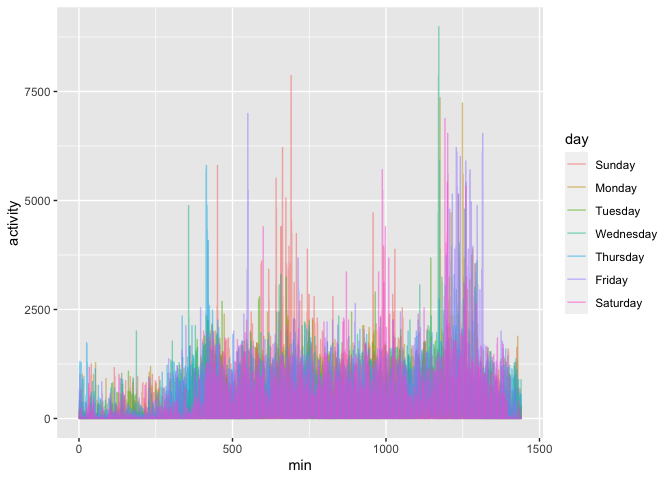
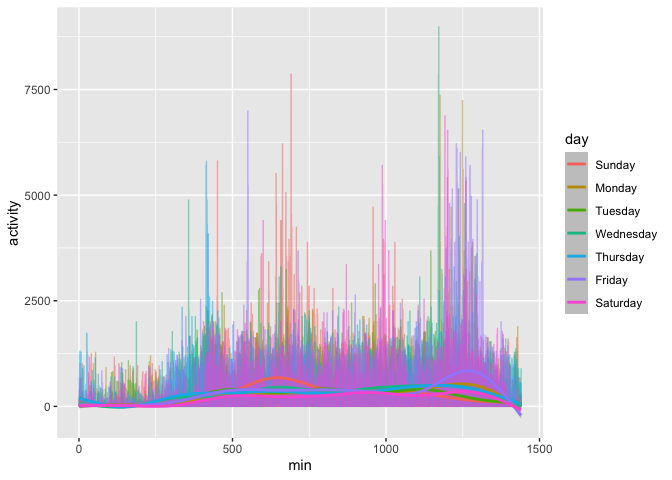
P3 solved _ P3_3_a still blank

diff --git a/p8105_hw3_yx2578.md b/p8105_hw3_yx2578.md
@@ -7,21 +7,9 @@ This is my solution to HW3.
 ``` r
 library(tidyverse)
 library(p8105.datasets)
-knitr::opts_chunk$set(
-    fig.width = 6, 
-  fig.asp = .6,
-  out.width = "90%"
-)
-theme_set(theme_minimal() + theme(legend.position = "bottom"))
-options(
-  ggplot2.continuous.colour = "viridis",
-  ggplot2.continuous.fill = "viridis"
-)
-scale_colour_discrete = scale_colour_viridis_d
-scale_fill_discrete = scale_fill_viridis_d
 ```
 
-### Problem 1
+### Problem 1 demonstrated by Jeff in class
 
 ``` r
 data("instacart")
@@ -72,7 +60,7 @@ instacart %>%
     theme(axis.text.x = element_text(angle = 90, vjust = 0.5, hjust = 1))
 ```
 
-<img src="p8105_hw3_yx2578_files/figure-gfm/unnamed-chunk-4-1.png" width="90%" />
+![](p8105_hw3_yx2578_files/figure-gfm/unnamed-chunk-4-1.png)<!-- -->
 
 Let’s make a table\!\!
 
@@ -121,7 +109,7 @@ instacart %>%
 
 ### Question 2
 
-##### Load and tidy the data
+#### Load and tidy the data
 
 ``` r
 p2_df = 
@@ -148,7 +136,7 @@ p2_df =
   - Variables are: week, day of the week, weekday (True or False),
     minute of the day and activity.
 
-##### Total activity of each day
+#### Total activity of each day
 
 Total activity of each day is computed using the following code chunk:
 
@@ -156,89 +144,47 @@ Total activity of each day is computed using the following code chunk:
 p2_df %>%
   group_by(week, day) %>% 
   summarize(total_activity = sum(activity))%>% 
-  knitr::kable(digits = 2)
+  pivot_wider (
+    names_from = day,
+    values_from = total_activity
+  )
 ```
 
-| week | day       | total\_activity |
-| ---: | :-------- | --------------: |
-|    1 | Sunday    |       631105.00 |
-|    1 | Monday    |        78828.07 |
-|    1 | Tuesday   |       307094.24 |
-|    1 | Wednesday |       340115.01 |
-|    1 | Thursday  |       355923.64 |
-|    1 | Friday    |       480542.62 |
-|    1 | Saturday  |       376254.00 |
-|    2 | Sunday    |       422018.00 |
-|    2 | Monday    |       295431.00 |
-|    2 | Tuesday   |       423245.00 |
-|    2 | Wednesday |       440962.00 |
-|    2 | Thursday  |       474048.00 |
-|    2 | Friday    |       568839.00 |
-|    2 | Saturday  |       607175.00 |
-|    3 | Sunday    |       467052.00 |
-|    3 | Monday    |       685910.00 |
-|    3 | Tuesday   |       381507.00 |
-|    3 | Wednesday |       468869.00 |
-|    3 | Thursday  |       371230.00 |
-|    3 | Friday    |       467420.00 |
-|    3 | Saturday  |       382928.00 |
-|    4 | Sunday    |       260617.00 |
-|    4 | Monday    |       409450.00 |
-|    4 | Tuesday   |       319568.00 |
-|    4 | Wednesday |       434460.00 |
-|    4 | Thursday  |       340291.00 |
-|    4 | Friday    |       154049.00 |
-|    4 | Saturday  |         1440.00 |
-|    5 | Sunday    |       138421.00 |
-|    5 | Monday    |       389080.00 |
-|    5 | Tuesday   |       367824.00 |
-|    5 | Wednesday |       445366.00 |
-|    5 | Thursday  |       549658.00 |
-|    5 | Friday    |       620860.00 |
-|    5 | Saturday  |         1440.00 |
+    ## # A tibble: 5 x 8
+    ## # Groups:   week [5]
+    ##    week Sunday  Monday Tuesday Wednesday Thursday  Friday Saturday
+    ##   <dbl>  <dbl>   <dbl>   <dbl>     <dbl>    <dbl>   <dbl>    <dbl>
+    ## 1     1 631105  78828. 307094.   340115.  355924. 480543.   376254
+    ## 2     2 422018 295431  423245    440962   474048  568839    607175
+    ## 3     3 467052 685910  381507    468869   371230  467420    382928
+    ## 4     4 260617 409450  319568    434460   340291  154049      1440
+    ## 5     5 138421 389080  367824    445366   549658  620860      1440
 
   - It seems that this person tend to have a stable level of activity
     over the weekdays, with some extremely low or high levels on certain
     weekends.
   - It also seems like this person is more active during week 3.
 
-##### Activity level plot by day
+#### Activity level plot by day
 
 ``` r
 p2_df %>%
   ggplot(aes(x = min, y = activity)) + 
-  geom_line(aes(colour = day), alpha = 0.5)
+  geom_line(aes(colour = day), alpha = 0.5)+
+  geom_smooth(aes(colour = day), alpha = 0.5)
 ```
 
-<img src="p8105_hw3_yx2578_files/figure-gfm/unnamed-chunk-9-1.png" width="90%" />
+![](p8105_hw3_yx2578_files/figure-gfm/unnamed-chunk-9-1.png)<!-- -->
 
   - It looks like this person is active during daytime and not active
-    over the night.
+    after midnight.
   - There are several peaks of activity during weekdays in the mornings
     and evenings.
   - This person is more active during weekdays, in general.
 
 ### Question 3
 
-The goal is to do some exploration of this dataset. To that end, write a
-short description of the dataset, noting the size and structure of the
-data, describing some key variables, and indicating the extent to which
-missing data is an issue. Then, do or answer the following (commenting
-on the results of each):
-
-  - Do some data cleaning. Create separate variables for year, month,
-    and day. Ensure observations for temperature, precipitation, and
-    snowfall are given in reasonable units. For snowfall, what are the
-    most commonly observed values? Why?
-  - Make a two-panel plot showing the average max temperature in January
-    and in July in each station across years. Is there any observable /
-    interpretable structure? Any outliers?
-  - Make a two-panel plot showing (i) tmax vs tmin for the full dataset
-    (note that a scatterplot may not be the best option); and (ii) make
-    a plot showing the distribution of snowfall values greater than 0
-    and less than 100 separately by year.
-
-##### Load and tidy the data
+#### Load and tidy the data
 
 ``` r
 p3_df =
@@ -254,12 +200,73 @@ p3_df =
 ```
 
   - The tidied dataset contains 9 columns and 2595176 rows.
-
   - Variables are: weather station ID, year, month, day, precipitation
     (in mm), snowfall (in mm), snow depth (in mm), maximum temperature
     (in degree C), minimum temperature (in degree C).
+  - There are a lot of missing values in this data set:
+      - The precipitation variable has 145838 missing values
+      - The snowfall has 381221 missing values
+      - The snow depth variable has 591786 missing values
+      - The minimum temperature has 1134420 missing values
+      - The maximum temperature has 1134358 missing values
 
-  - Make a plot showing the average max temperature in January and in
-    July
+#### Answer to the questions
 
-  -
+  - For snowfall, most commonly observed values is 0, there are 2008508
+    rows with a 0 snowfall record.
+
+  - Plot showing the average max temperature in January and in July in
+    each station across years:
+
+<!-- end list -->
+
+``` r
+p3_df %>%
+  filter(month == 1 | month == 7) %>%
+  group_by(id, year, month) %>%
+  mutate(
+    avg_tmax = mean(tmax, na.rm = TRUE),
+    month = month.name[month]) %>%
+  ggplot(aes(x = year, y = avg_tmax, color = month)) + 
+  geom_point(size = 0.1)+
+  geom_smooth(alpha = 0.5, se = FALSE)+
+  facet_grid(~month)+
+  theme(legend.position="none")+
+  scale_color_manual(values=c("blue", "orange"))
+```
+
+![](p8105_hw3_yx2578_files/figure-gfm/unnamed-chunk-11-1.png)<!-- -->
+
+Observable and interpretable structure: It is warmer in July overall.
+The average maximum temperature among different stations has a smaller
+fluctuation range among July over the years, as compared to January. It
+seems that there is not apparent global warming trend from this plot.
+There seem to be extremely cold winters around 1993\~1994 and around
+2002-2004.
+
+  - Make a two-panel plot
+
+<!-- end list -->
+
+``` r
+library("patchwork")
+
+p3_3_a <- 
+  p3_df %>% 
+  drop_na(tmin) %>% 
+  ggplot(aes(x = tmin, y = tmax)) + 
+  geom_hex()
+
+p3_3_b <- 
+p3_df %>% 
+  filter(snow < 100 & snow > 0) %>%
+  mutate(year = factor(year)) %>%
+  ggplot(aes(x = year, y = snow)) + 
+  geom_violin(aes(fill = year), alpha = 0.3, draw_quantiles = c(0.25, 0.5, 0.75))+
+  theme(axis.text.x = element_text(angle = 90),
+        legend.position="none")
+
+p3_3_a/p3_3_b
+```
+
+![](p8105_hw3_yx2578_files/figure-gfm/unnamed-chunk-12-1.png)<!-- -->
